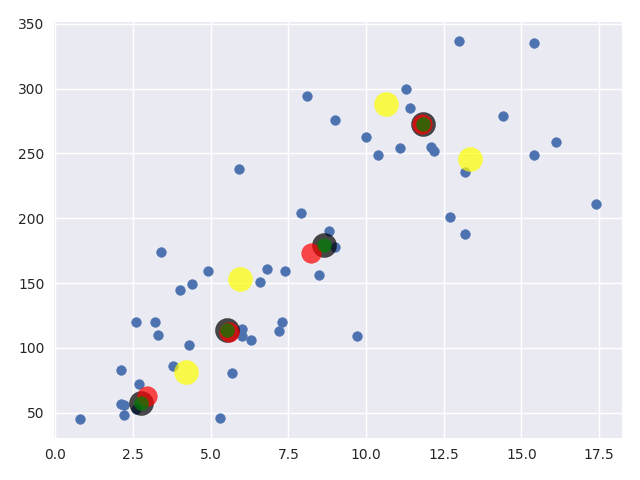
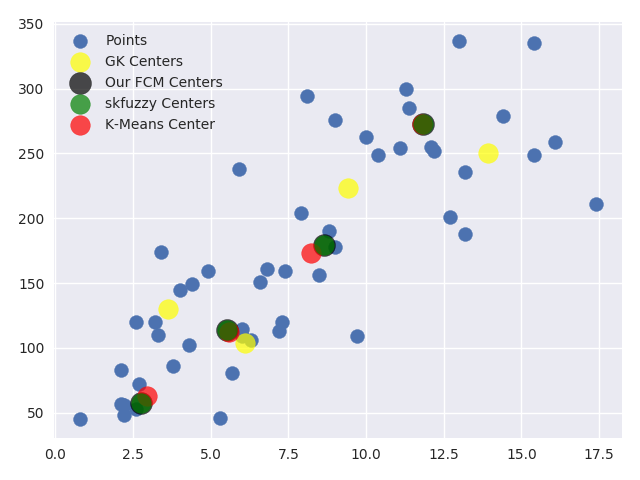
image

diff --git a/tests/crime.py b/tests/crime.py
@@ -27,12 +27,14 @@ cmean_centers = fcm.fit(X)
 gk_centers = gk.fit(X)
 kmeans.fit(X)
 
-plt.scatter(X[:, 0], X[:, 1], s=50, cmap='viridis')
-plt.scatter(cmean_centers[:, 0], cmean_centers[:, 1], c='black', s=300, alpha=0.7)
-plt.scatter(gk_centers[:, 0], gk_centers[:, 1], c='yellow', s=300, alpha=0.7)
+points_s = plt.scatter(X[:, 0], X[:, 1], s=100, cmap='viridis')
+fcm_s = plt.scatter(cmean_centers[:, 0], cmean_centers[:, 1], c='black', s=250, alpha=0.7)
+gk_s = plt.scatter(gk_centers[:, 0], gk_centers[:, 1], c='yellow', s=200, alpha=0.7)
 
 kmeans_centers = kmeans.cluster_centers_
-plt.scatter(kmeans_centers[:, 0], kmeans_centers[:, 1], c='red', s=200, alpha=0.7)
+km_s = plt.scatter(kmeans_centers[:, 0], kmeans_centers[:, 1], c='red', s=200, alpha=0.7)
 
-plt.scatter(cntr[:, 0], cntr[:, 1], c='green', s=100, alpha=0.7)
+cm_s = plt.scatter(cntr[:, 0], cntr[:, 1], c='green', s=200, alpha=0.7)
+plt.legend((points_s, gk_s, fcm_s, cm_s, km_s),
+           ("Points", "GK Centers", "Our FCM Centers", "skfuzzy Centers", "K-Means Center"))
 plt.show()
